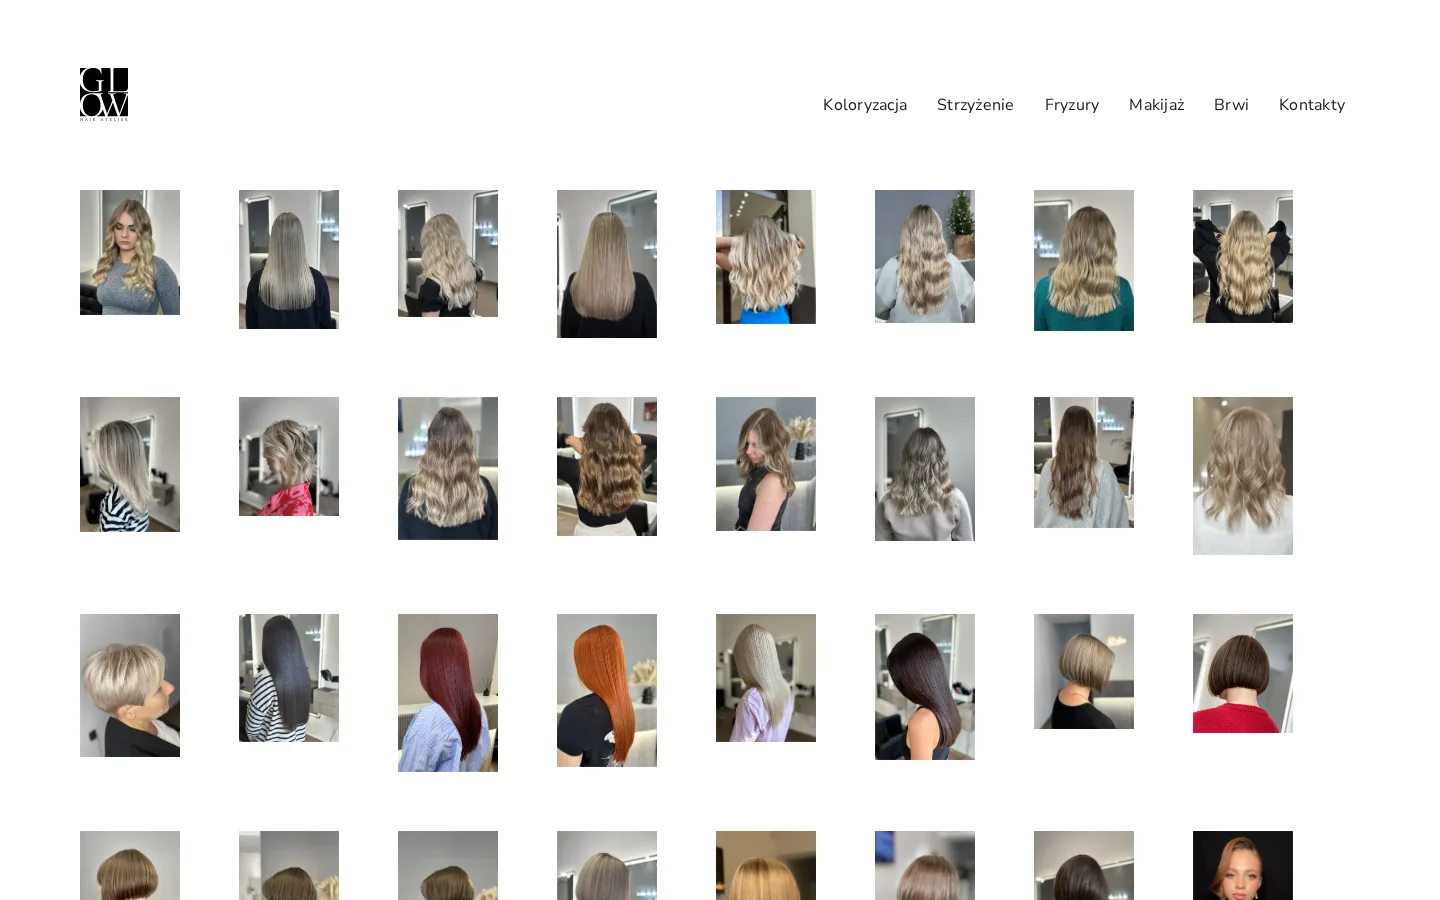
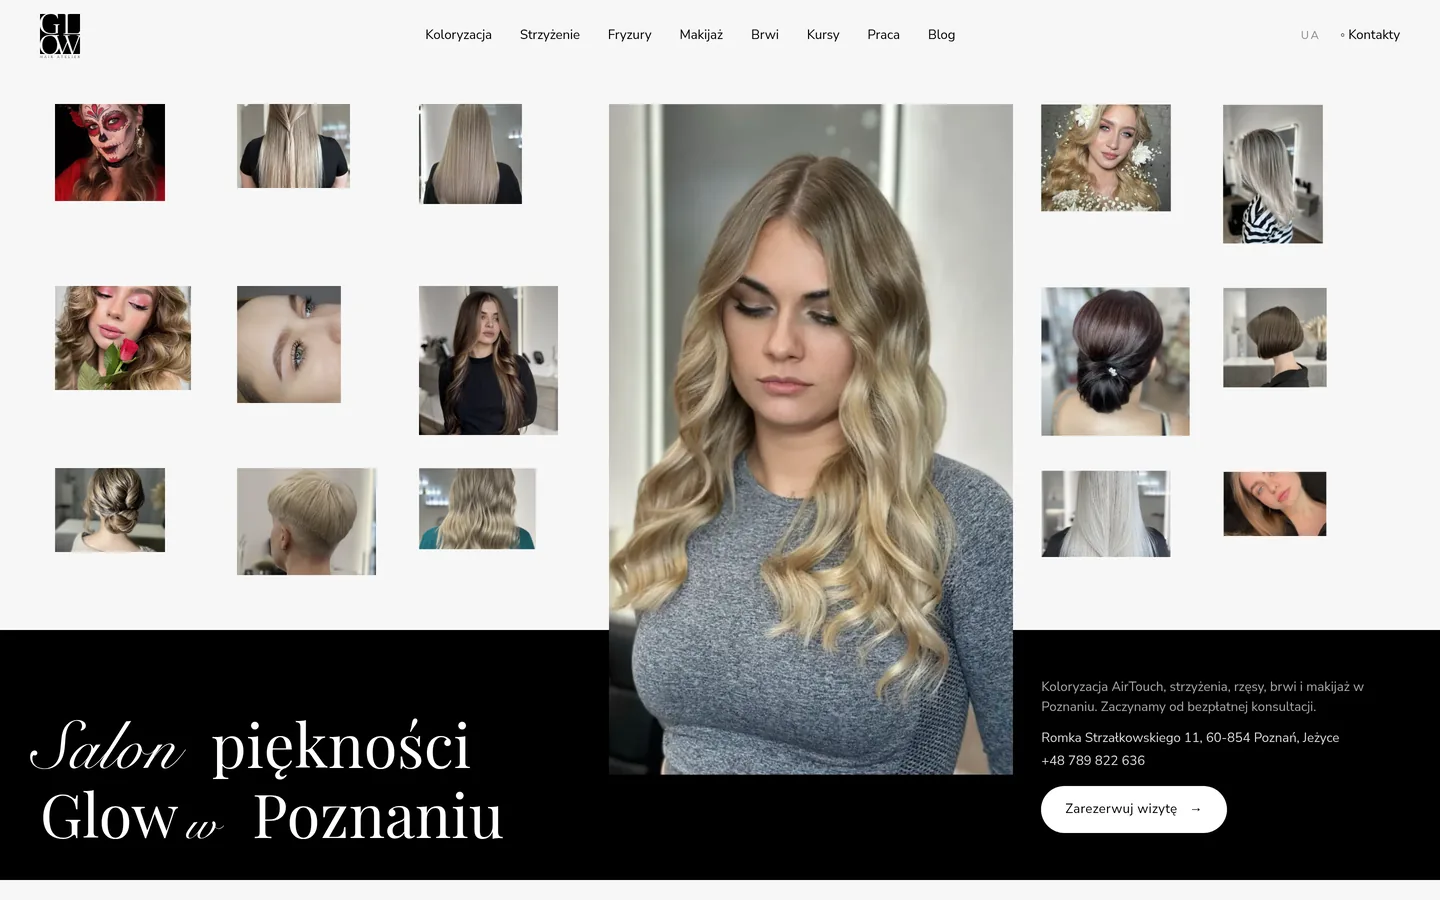
Update the Glow case to the new multi-page site
Rewrite the Glow Beauty Salon case in UA, RU, PL, and EN for glowpoznan.com: bilingual site, masters with Booksy, courses, blog, and SEO. Replace the old one-page screenshots with captures of the live homepage, masters, and courses.

diff --git a/src/work.ts b/src/work.ts
@@ -14,7 +14,7 @@ export const WORKS: Work[] = [
   { key: 'tesla', slug: 'teslahub', url: 'https://www.teslahubservice.com/', host: 'teslahubservice.com', behance: 'https://www.behance.net/gallery/213695989/Tesla-HUB-service', thumb: C + 'teslahub-desktop.webp', mob: C + 'teslahub-mobile.webp', full: C + 'teslahub-full.webp', shots: [C + 'teslahub-s1.webp', C + 'teslahub-s2.webp', C + 'teslahub-s3.webp'], mobs: [C + 'teslahub-mobile.webp', C + 'teslahub-m2.webp', C + 'teslahub-m3.webp'],
     gallery: { label: { ua: 'Бренд під ключ: айдентика, соцмережі, друк', ru: 'Бренд под ключ: айдентика, соцсети, печать', pl: 'Marka pod klucz: identyfikacja, social media, druk', en: 'Turnkey brand: identity, social, print' }, imgs: range('teslahub-brand', 1, 7) } },
   { key: 'glow', slug: 'glow', url: 'https://glowpoznan.com/', host: 'glowpoznan.com', behance: 'https://www.behance.net/gallery/229628319/GLOW-Beauty-Salon', thumb: C + 'glow-desktop.webp', mob: C + 'glow-mobile.webp', full: C + 'glow-full.webp', shots: [], mobs: [C + 'glow-mobile.webp', C + 'glow-m2.webp'],
-    gallery: { label: { ua: 'Макети', ru: 'Макеты', pl: 'Projekty', en: 'Layouts' }, imgs: [2, 3, 4, 5, 6].map((i) => `${C}glow-n${i}.webp`) } },
+    gallery: { label: { ua: 'Майстри і курси', ru: 'Мастера и курсы', pl: 'Mistrzynie i kursy', en: 'Masters and courses' }, imgs: [C + 'glow-masters.webp', C + 'glow-course-hair.webp', C + 'glow-course-makeup.webp'] } },
   { key: 'reserba', slug: 'reserba', proto: 'https://www.figma.com/proto/y4a57ujScmp3J1qO9tCpbR/Reserba?node-id=1083-14349&scaling=scale-down&content-scaling=fixed&page-id=334%3A377&starting-point-node-id=1083%3A14362', thumb: C + 'reserba-2.webp', shots: [], mobs: [],
     gallery: { label: { ua: 'Дослідження, user flow та дизайн', ru: 'Исследование, user flow и дизайн', pl: 'Badania, user flow i design', en: 'Research, user flow and design' }, imgs: range('reserba', 1, 9) } },
   { key: 'garcinia', slug: 'garcinia', behance: 'https://www.behance.net/gallery/74894321/Carcinia-Landing-page', thumb: C + 'garcinia-2.webp', shots: [], mobs: [],
@@ -24,10 +24,10 @@ export const workBySlug = (s: string) => WORKS.find((w) => w.slug === s);
 
 const NEW: Record<'glow' | 'reserba' | 'garcinia', Record<Lang, CaseText>> = {
   glow: {
-    ua: { title: 'Glow Beauty Salon', tag: 'Сайт · Салон краси, Познань', task: 'Стильний адаптивний сайт, що показує роботи салону, посилює присутність онлайн і веде клієнтів на запис через Booksy.', did: ['Структура і дизайн у Figma', 'Односторінковий сайт на HTML/CSS/JS, написаний за допомогою ШІ', 'Розділи послуг і галерея робіт', 'Плавний скрол та інтерактив', 'Інтеграція запису Booksy', 'Публікація через GitHub'], result: ['Сильніший цифровий образ салону', 'Ширша аудиторія', 'Більше записів і залученості клієнтів'] },
-    ru: { title: 'Glow Beauty Salon', tag: 'Сайт · Салон красоты, Познань', task: 'Стильный адаптивный сайт, который показывает работы салона, усиливает присутствие онлайн и ведёт клиентов на запись через Booksy.', did: ['Структура и дизайн в Figma', 'Одностраничный сайт на HTML/CSS/JS, написанный с помощью ИИ', 'Разделы услуг и галерея работ', 'Плавный скролл и интерактив', 'Интеграция записи Booksy', 'Публикация через GitHub'], result: ['Более сильный цифровой образ салона', 'Шире аудитория', 'Больше записей и вовлечённости клиентов'] },
-    pl: { title: 'Glow Beauty Salon', tag: 'Strona · Salon piękności, Poznań', task: 'Stylowa, responsywna strona, która pokazuje prace salonu, wzmacnia obecność online i kieruje klientów do rezerwacji przez Booksy.', did: ['Struktura i projekt w Figma', 'Strona one-page w HTML/CSS/JS napisana z pomocą AI', 'Sekcje usług i galeria prac', 'Płynne przewijanie i interakcje', 'Integracja rezerwacji Booksy', 'Publikacja przez GitHub'], result: ['Mocniejszy wizerunek salonu online', 'Szersze grono odbiorców', 'Więcej rezerwacji i zaangażowania'] },
-    en: { title: 'Glow Beauty Salon', tag: 'Website · Beauty salon, Poznań', task: 'A stylish responsive website that showcases the salon’s work, strengthens its online presence and drives bookings via Booksy.', did: ['Structure and design in Figma', 'One-page site in HTML/CSS/JS, written with AI', 'Services and gallery sections', 'Smooth scroll and interactions', 'Booksy booking integration', 'Deployed via GitHub'], result: ['Stronger digital image of the salon', 'Broader audience', 'More bookings and client engagement'] },
+    ua: { title: 'Glow Beauty Salon', tag: 'Сайт · Салон краси, Познань', task: 'Салону потрібен був не просто сайт-вітрина, а сайт, який приводить клієнтів з пошуку, продає курси й дає легко записатися до конкретного майстра.', did: ['Новий дизайн і багатосторінковий сайт польською та українською', 'Послуги, галерея робіт і блок «Наші майстрині»: Оля та Вікторія, запис у Booksy до кожної', 'Блог із SEO-статтями — зокрема про весільний макіяж у Познані — виходить регулярно', 'Сторінка курсів /kursy: стрижки Олі (боб і боб-каре) та макіяж Вікторії, у кожного курсу своє відео', 'Лист очікування надсилає заявку в Telegram-бот майстрині', 'SEO: sitemap на 26 сторінок у Google Search Console, сторінки в індексі; Vercel Web Analytics і Speed Insights', 'Vite, React і Tailwind із пререндером, зібрано з допомогою ШІ; хостинг на Vercel, домен glowpoznan.com'], result: ['Сильніша присутність салону онлайн', 'Органічний трафік через блог і SEO', 'Заявки на курси одразу потрапляють майстриням', 'Простіше записатися до конкретного майстра'] },
+    ru: { title: 'Glow Beauty Salon', tag: 'Сайт · Салон красоты, Познань', task: 'Салону нужен был не просто сайт-витрина, а сайт, который приводит клиентов из поиска, продаёт курсы и позволяет легко записаться к конкретному мастеру.', did: ['Новый дизайн и многостраничный сайт на польском и украинском', 'Услуги, галерея работ и блок «Наши мастера»: Оля и Виктория, запись в Booksy к каждой', 'Блог с SEO-статьями — в том числе о свадебном макияже в Познани — выходит регулярно', 'Страница курсов /kursy: стрижки Оли (боб и боб-каре) и макияж Виктории, у каждого курса своё видео', 'Лист ожидания отправляет заявку в Telegram-бот мастера', 'SEO: sitemap на 26 страниц в Google Search Console, страницы в индексе; Vercel Web Analytics и Speed Insights', 'Vite, React и Tailwind с пререндером, собрано с помощью ИИ; хостинг на Vercel, домен glowpoznan.com'], result: ['Более сильное присутствие салона онлайн', 'Органический трафик через блог и SEO', 'Заявки на курсы сразу приходят мастерам', 'Проще записаться к конкретному мастеру'] },
+    pl: { title: 'Glow Beauty Salon', tag: 'Strona · Salon piękności, Poznań', task: 'Salon potrzebował nie tylko strony-wizytówki, ale witryny, która przyciąga klientki z wyszukiwarki, sprzedaje kursy i ułatwia zapis do konkretnej mistrzyni.', did: ['Nowy projekt i wielostronicowa witryna po polsku i ukraińsku', 'Usługi, galeria prac i blok «Nasze mistrzynie»: Ola i Wiktoria, rezerwacja w Booksy u każdej', 'Blog z artykułami SEO — m.in. o makijażu ślubnym w Poznaniu — publikowany regularnie', 'Strona kursów /kursy: strzyżenie Oli (karé i bob-karé) oraz makijaż Wiktorii, przy każdym kursie wideo', 'Lista oczekujących wysyła zgłoszenie do bota Telegram mistrzyni', 'SEO: sitemap z 26 stronami w Google Search Console, strony w indeksie; Vercel Web Analytics i Speed Insights', 'Vite, React i Tailwind z prerenderingiem, zbudowane z pomocą AI; hosting na Vercel, domena glowpoznan.com'], result: ['Mocniejsza obecność salonu online', 'Ruch organiczny z bloga i SEO', 'Zgłoszenia na kursy od razu trafiają do mistrzyń', 'Łatwiejszy zapis do konkretnej mistrzyni'] },
+    en: { title: 'Glow Beauty Salon', tag: 'Website · Beauty salon, Poznań', task: 'The salon needed more than a showcase: a site that brings clients in from search, sells courses, and makes it easy to book a specific master.', did: ['New design and a multi-page site in Polish and Ukrainian', 'Services, a gallery of work, and an Our masters block: Olya and Viktoria, with Booksy booking for each', 'A blog of SEO articles, including wedding makeup in Poznań, published regularly', 'Courses page /kursy: Olya’s haircut courses (bob and bob-carre) and Viktoria’s makeup courses, each with a video', 'Waitlist form sends the application to that master’s Telegram bot', 'SEO: a 26-page sitemap in Google Search Console, pages indexed; Vercel Web Analytics and Speed Insights', 'Vite, React and Tailwind with prerendering, built with AI assistance; hosted on Vercel at glowpoznan.com'], result: ['A stronger online presence', 'Organic traffic through the blog and SEO', 'Course applications go straight to the masters', 'Easier booking with a specific master'] },
   },
   reserba: {
     ua: { title: 'Reserba', tag: 'UX/UI · Мобільний застосунок і веб-сервіс бронювання', task: 'Зручний прототип для пошуку та бронювання локальних спеціалістів (салони краси, няні, садівники тощо): аналіз потреб, конкурентів, інтерфейс і ключові функції.', did: ['Дослідження та аналіз цільової аудиторії', 'Аналіз конкурентів', 'User flow та етапи роботи', 'Дизайн-система та інтерфейс', 'Пошук і фільтри, бронювання, відгуки, чат', 'Клікабельний прототип у Figma'], result: ['Час підтвердження бронювання −40%', 'Висока залученість і простота використання', 'Більше довіри завдяки системі відгуків'] },
